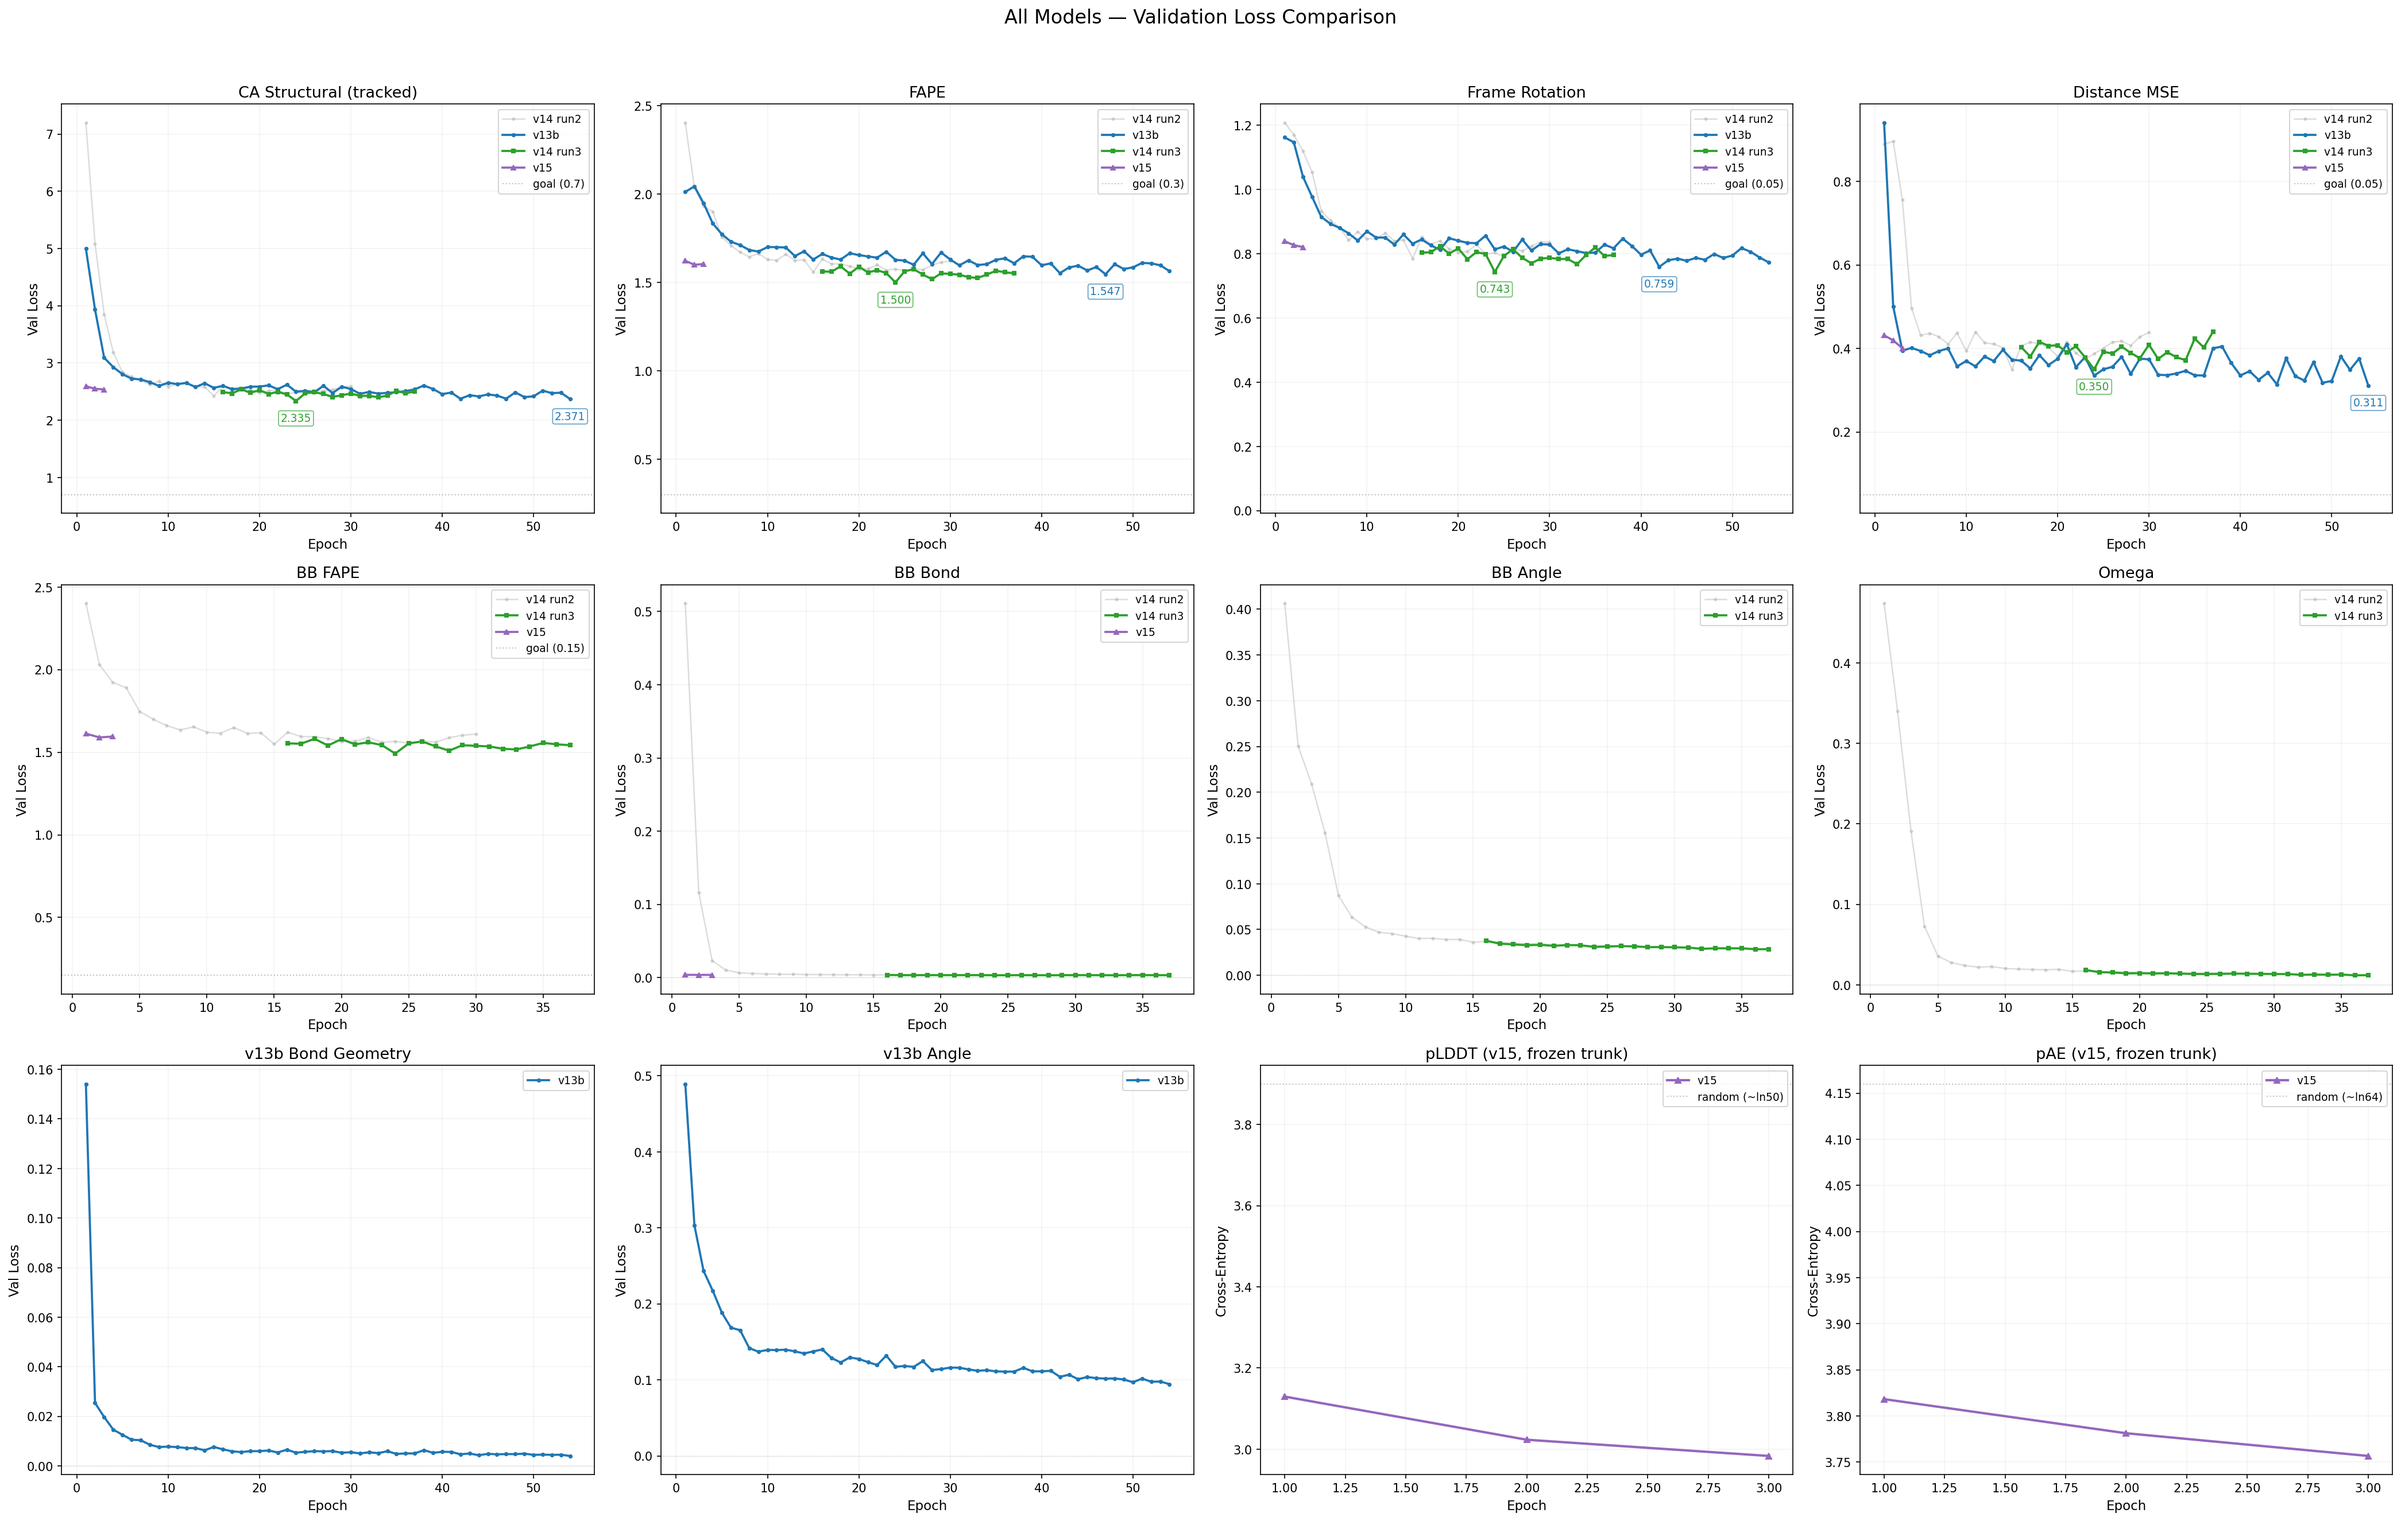
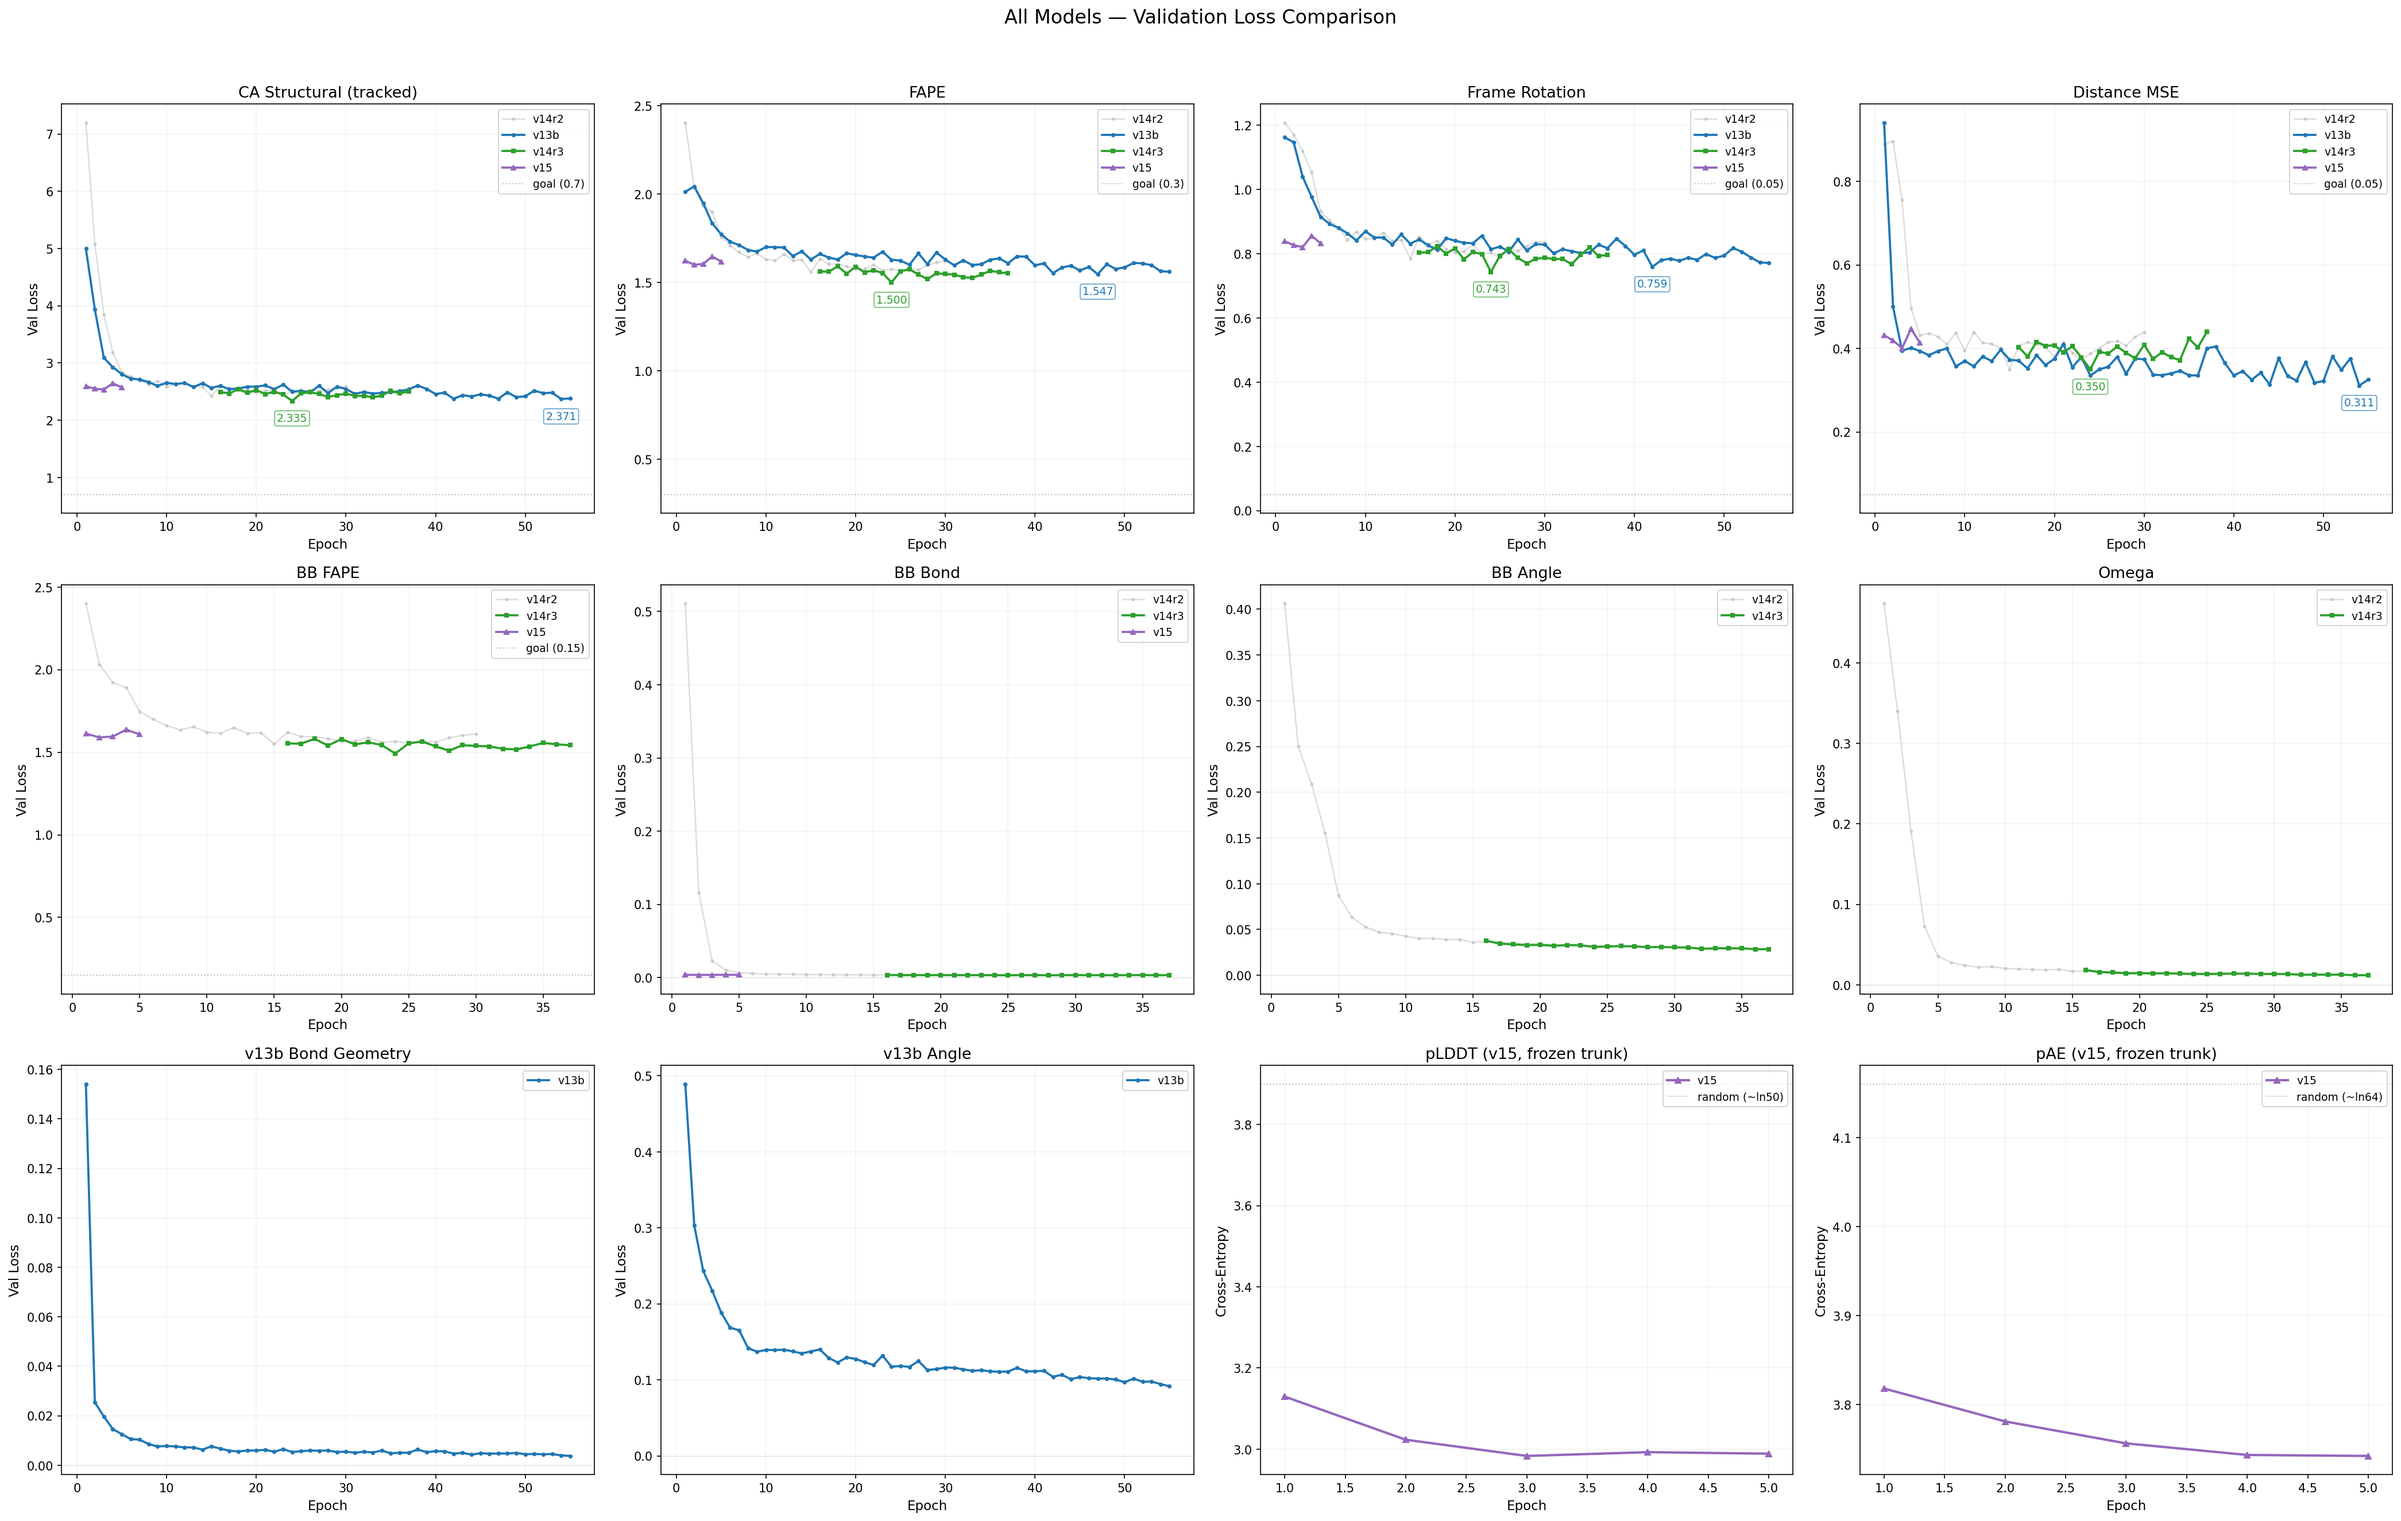
Update: v15 E5 (pLDDT 2.99, DDIM TM=0.102), v13b E55 (pat 1)
v15 frozen trunk: 5 epochs in ~95 min. DDIM TM 0.102 — trunk quality
preserved. pLDDT/pAE still converging. Regenerated 3x4 plot.

diff --git a/minifold.html b/minifold.html
@@ -194,7 +194,7 @@
       Full architecture history, training tables, loss functions, and analysis for the protein backbone diffusion model.
     </p>
     <p id="last-updated" style="color: var(--text-secondary); font-size: 13px; margin-bottom: 16px; font-style: italic;">
-      Last updated: Mar 14, 2026 at 10:30 PM PST
+      Last updated: Mar 14, 2026 at 11:00 PM PST
     </p>
 
     <div class="mf-tabs">
@@ -410,6 +410,7 @@
           <tr><td><strong>2</strong></td><td><strong>4.205</strong></td><td>2.335</td><td>1.600</td><td>0.827</td><td>0.421</td><td>1.590</td><td>3.023</td><td>3.781</td><td>&mdash;</td><td><span class="tag tag-best">NEW BEST</span></td></tr>
           <tr><td><strong>3</strong></td><td><strong>4.143</strong></td><td>2.335</td><td>1.597</td><td>0.821</td><td>0.415</td><td>1.587</td><td>2.983</td><td>3.757</td><td>&mdash;</td><td><span class="tag tag-best">NEW BEST</span></td></tr>
           <tr><td><strong>4</strong></td><td><strong>4.095</strong></td><td>2.335</td><td>1.601</td><td>0.826</td><td>0.410</td><td>1.591</td><td>2.993</td><td>3.744</td><td>&mdash;</td><td><span class="tag tag-best">NEW BEST</span></td></tr>
+          <tr><td><strong>5</strong></td><td><strong>4.075</strong></td><td>2.335</td><td>1.598</td><td>0.820</td><td>0.412</td><td>1.588</td><td>2.989</td><td>3.743</td><td>0.102</td><td><span class="tag tag-best">NEW BEST</span></td></tr>
         </tbody>
       </table>
     </div>
